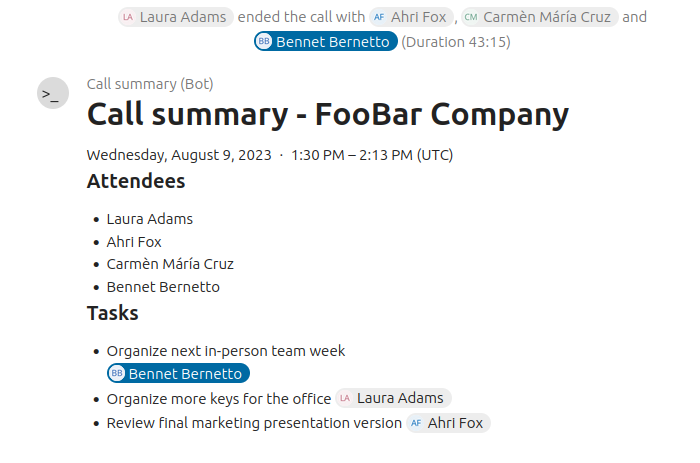
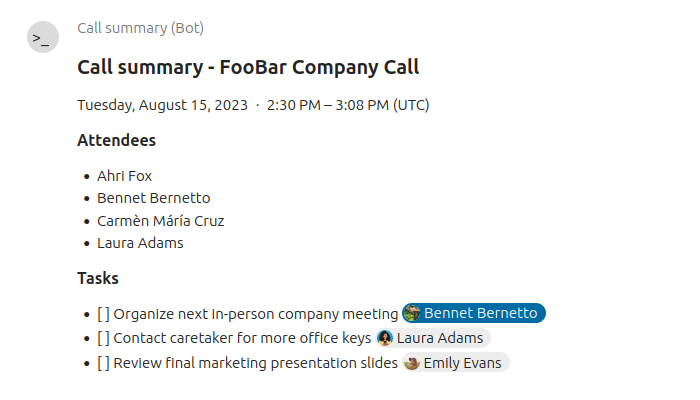
Update readme and screenshots

diff --git a/README.md b/README.md
@@ -4,7 +4,8 @@ The call summary bot posts an overview message after the call listing all partic
 
 ## Usage
 
-- Any message starting with a `-` or `*` during a call will be recognized as a task, you can also post multiple tasks in a single message, just put each on its own line starting with a `-` or `*`
+- Any message starting with a Markdown todo `- [ ] ` or the keywords `task:` or `todo:` during a call will be recognized as a task
+- You can also post multiple tasks in a single message, just put each on its own line starting with a keyword
 - At the end of the call, the bot will summarize it and list all the attendees as well as the tasks in a markdown chat message
 
 ![Screenshot showing a call summary chat message](docs/screenshot.png)
